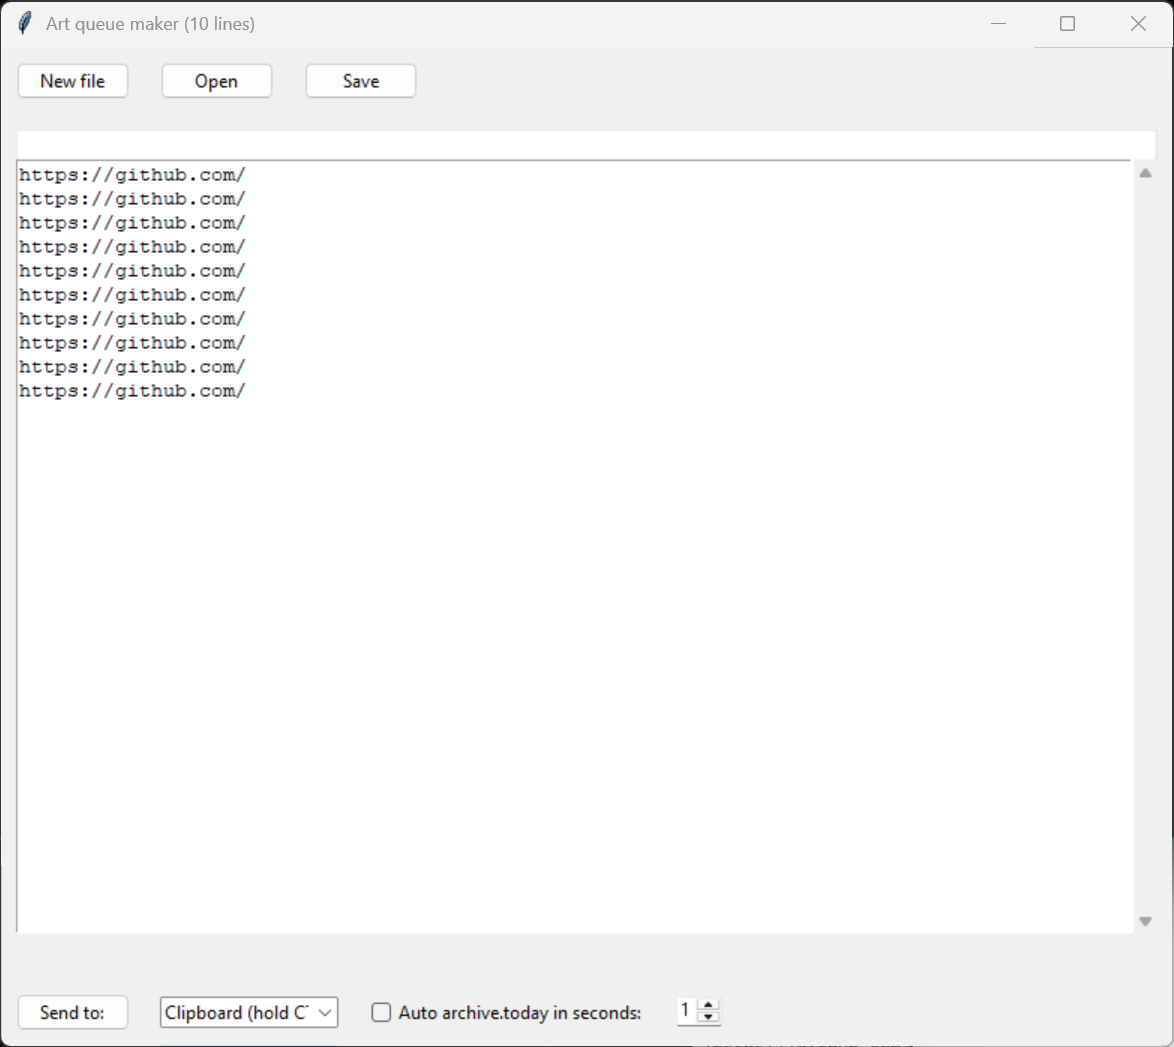
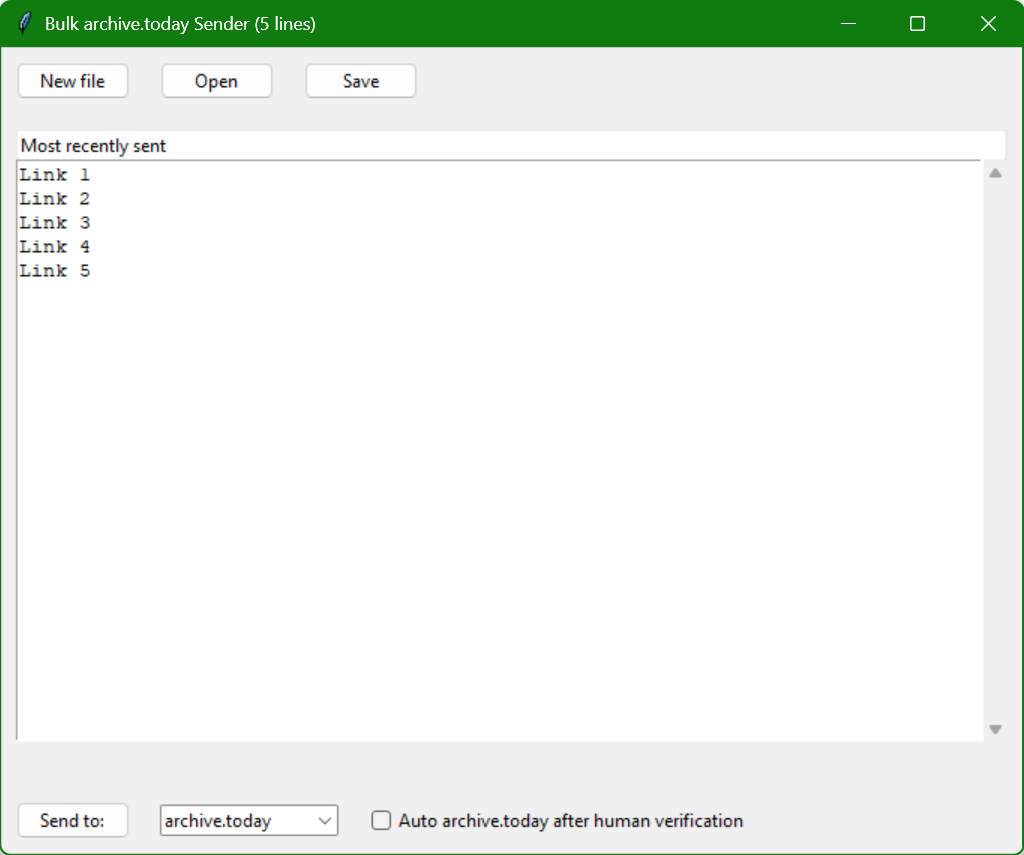
making it centered around archive.today

diff --git a/artqueuemaker.py b/artqueuemaker.py
@@ -7,11 +7,12 @@ from threading import Thread
 from time import sleep
 from tkinter import filedialog, messagebox, scrolledtext, ttk
 import traceback
+import random
 
 import pyperclip as pc
 
 oldtitle = "newqueue"
-currenttitle = "Art queue maker"
+currenttitle = "Bulk archive.today Sender"
 
 
 def instruct():
@@ -119,7 +120,7 @@ def threadedarchive():
         print(linkbox.get("1.0", "1.0 + 1 lines"))
         entry_text.set(linkbox.get("1.0", "1.0 + 1 lines"))
         linkbox.delete("1.0", "1.0 + 1 lines")
-        sleep(float(delayseconds.get()))
+        sleep(float(random.uniform(0.25, 1)))
     tickvar.set(0)
 
 def autoarchive():
@@ -169,13 +170,13 @@ sendbutton = ttk.Button(bottomframe, text="Send to:", command=sendline).grid(
 sm = tk.StringVar()
 sendmode = ttk.Combobox(bottomframe, width=16, textvariable=sm, state="readonly")
 sendmode["values"] = ("Clipboard (hold CTRL and press V to paste)", "archive.today", "ghostarchive")
-sendmode.current(0)
+sendmode.current(1)
 sendmode.grid(column=1, row=0, padx=10, pady=12)
 
 tickvar = tk.IntVar(value=0)
 archivetick = ttk.Checkbutton(
     bottomframe,
-    text="Auto archive.today in seconds:",
+    text="Auto archive.today after human verification",
     variable=tickvar,
     onvalue=1,
     offvalue=0,
@@ -185,10 +186,6 @@ archivetick.grid(column=2, row=0, padx=10, pady=12)
 
 my_var = tk.StringVar(window)
 my_var.set("1")
-delayseconds = ttk.Spinbox(
-    bottomframe, from_=1, to=60, text="Delay (in s)", textvariable=my_var, width=2
-)
-delayseconds.grid(column=3, row=0, padx=10, pady=12)
 
 newbutton = ttk.Button(buttons_frame, text="New file", command=newfile).grid(
     row=0, column=0, padx=(10), pady=10

diff --git a/README.md b/README.md
@@ -1,4 +1,4 @@
-# Art queue maker (Python)
+# Bulk archive.today Sender (Python)
  Better version of the WPF/C# kind (https://github.com/AceOfSpadesProduc100/Art-Queue-Maker), made in Tkinter
 
 ![](preview1.png)
